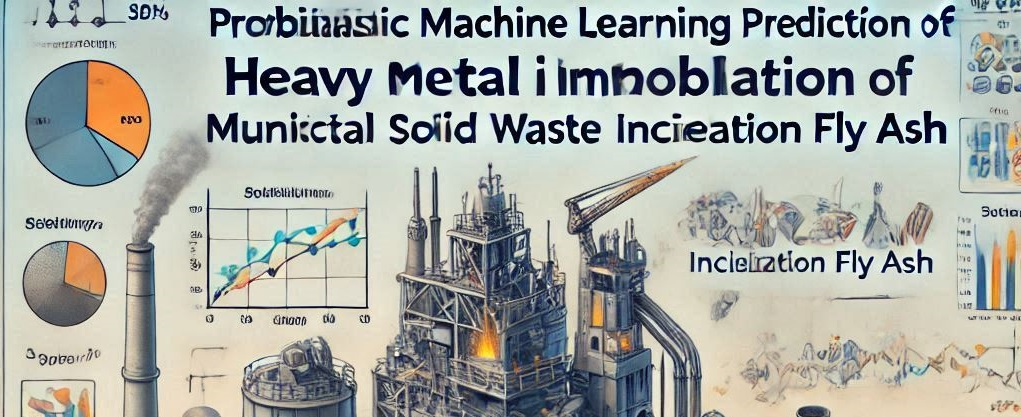
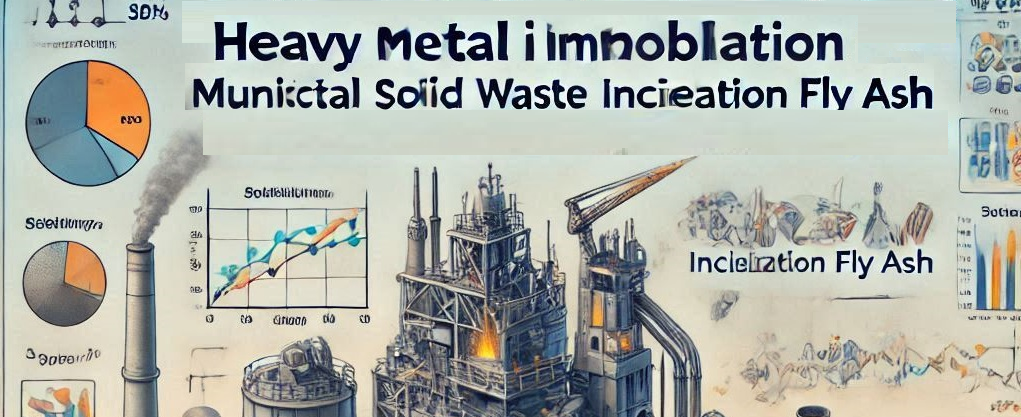
Add files via upload

Changed region(s): [[0.1822, 0.0, 0.9412, 0.3741]]

diff --git a/README.md b/README.md
@@ -1,0 +1,4 @@
+# Machine learning model for immobilization rate 
+
+heavy metal immobilization kinetics and mechanisms in geopolymer-based 
+solidification/stabilization of municipal solid waste incineration fly ash
